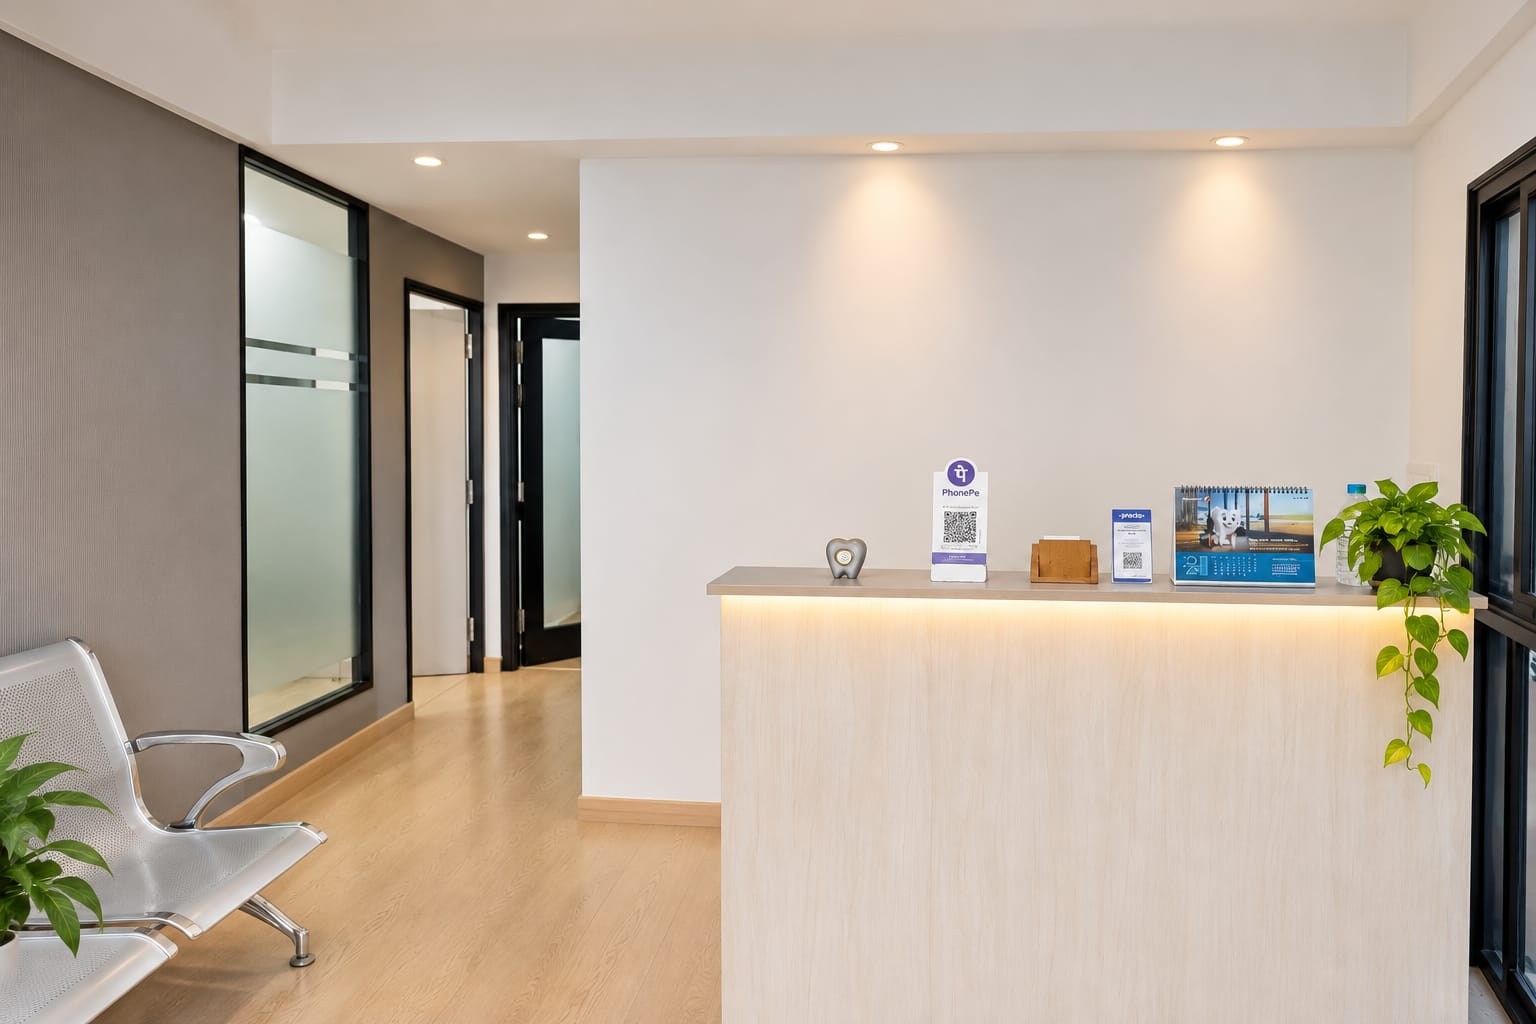
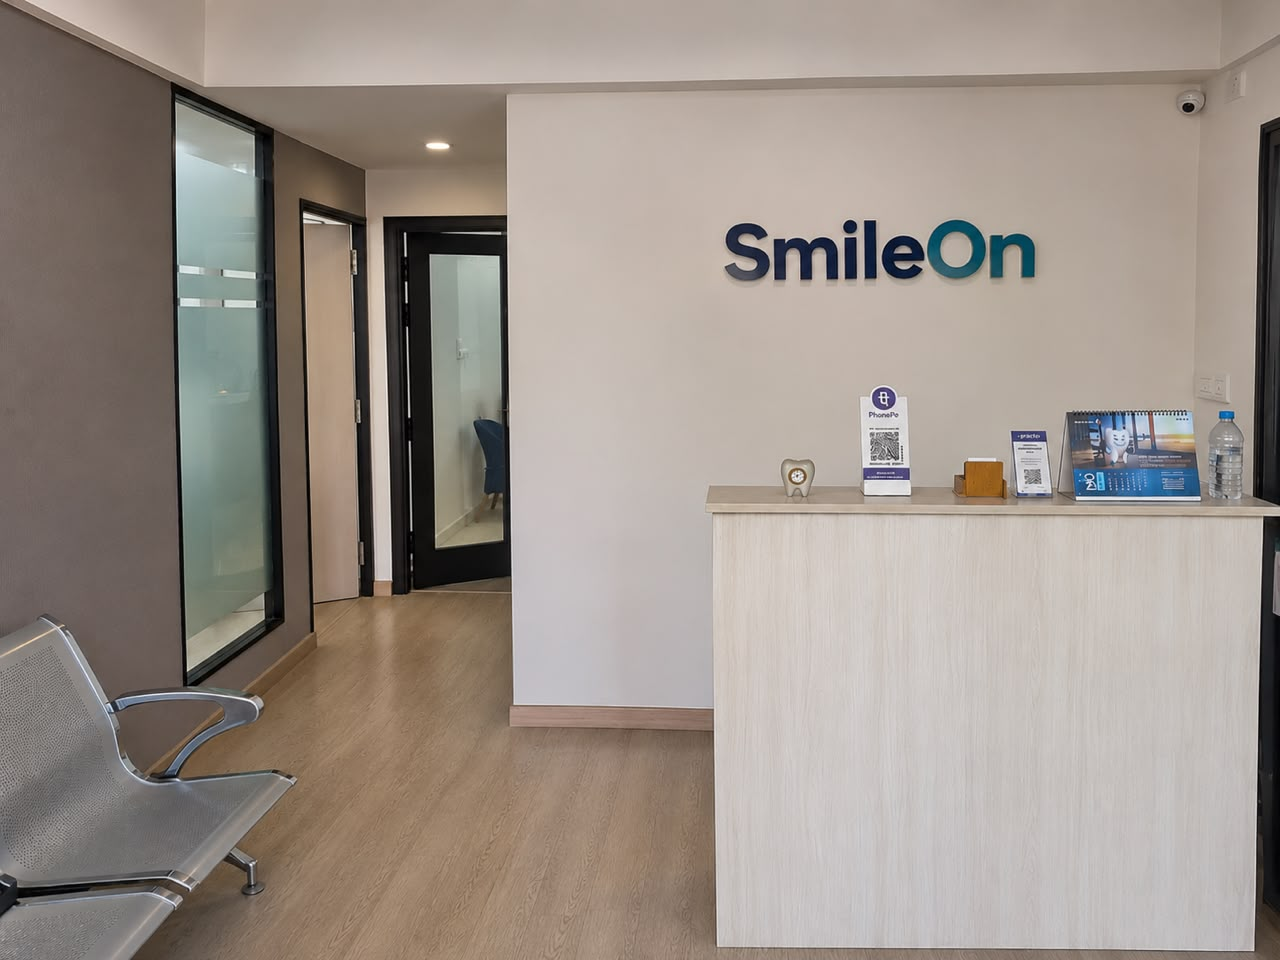
added photos from clinic

diff --git a/index.html b/index.html
@@ -245,13 +245,13 @@
           <!-- Left: 4 Gallery Photos -->
           <div class="experience-gallery-grid reveal-left">
             <div class="exp-gallery-item tall">
-              <img src="/assets/about_clinic_interior.jpg" alt="Modern Clinic Interior">
+              <img src="/assets/clinicinterior.jpeg" alt="Modern Clinic Interior">
             </div>
             <div class="exp-gallery-item">
-              <img src="/assets/dentist_care.jpg" alt="Doctor Gentle Care">
+              <img src="/assets/clinicmachine.jpeg" alt="Doctor Gentle Care">
             </div>
             <div class="exp-gallery-item">
-              <img src="/assets/hero_clinic.jpg" alt="Dental Operatory">
+              <img src="/assets/clinicmainchair.jpeg" alt="Dental Operatory">
             </div>
             <div class="exp-gallery-item tall">
               <img src="/assets/service_veneers.jpg" alt="Cosmetic Shade Guide">
@@ -679,7 +679,7 @@
           </a>
 
           <a href="/services.html" class="service-visual-card">
-            <img src="/assets/about_clinic_interior.jpg" alt="Dental Implants">
+            <img src="/assets/clinicinterior.jpeg" alt="Dental Implants">
             <div class="service-visual-overlay">
               <h4>Titanium Implants</h4>
               <span>Permanent Tooth Replacement &bull; Explore</span>
@@ -703,7 +703,7 @@
           </a>
 
           <a href="/services.html" class="service-visual-card">
-            <img src="/assets/hero_clinic.jpg" alt="Crowns & Bridges">
+            <img src="/assets/clinicmachine.jpeg" alt="Crowns & Bridges">
             <div class="service-visual-overlay">
               <h4>Zirconia Crowns</h4>
               <span>Durable & Natural Aesthetics &bull; Explore</span>
@@ -764,7 +764,7 @@
           </div>
 
           <div class="values-media-gallery">
-            <img src="/assets/about_clinic_interior.jpg" alt="Clinic Interior">
+            <img src="/assets/clinicinterior.jpeg" alt="Clinic Interior">
             <img src="/assets/dentist_care.jpg" alt="Care Environment">
           </div>
 
